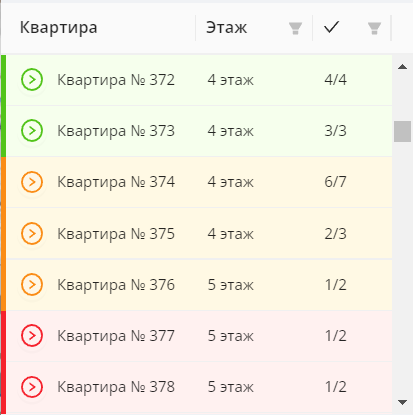
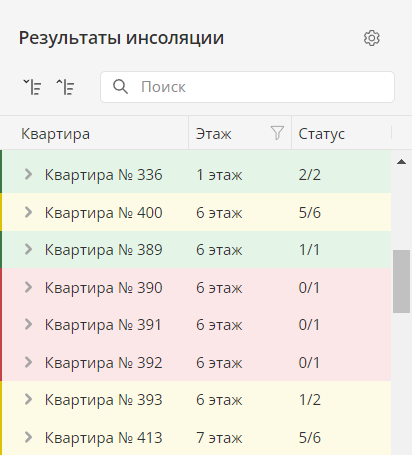
Fix keo docs

diff --git a/docs/3. Руководство пользователя/4. Расчет инсоляции/3. Анализ результатов.md b/docs/3. Руководство пользователя/4. Расчет инсоляции/3. Анализ результатов.md
@@ -2,7 +2,7 @@ import statysImage from "@site/docs/resources/lk/statys.png";
 import dlinaImage from "@site/docs/resources/lk/dlina.png";
 import rgyImage from "@site/docs/resources/rgy.png";
 import pppImage from "@site/docs/resources/frame/ppp.png";
-import rezImage from "@site/docs/resources/frame/rez.gif";
+import rezImage from "@site/docs/resources/frame/rez.png";
 import ilImage from "@site/docs/resources/frame/il.png";
 import kkImage from "@site/docs/resources/frame/kk.png";
 import zzImage from "@site/docs/resources/frame/zz.png";
@@ -15,37 +15,32 @@ import ssImage from "@site/docs/resources/frame/ss.png";
 
 Возвращаемся на вкладку *“Инсоляция”*, переходим в раздел *Результаты*.
 
-<image image={pppImage} width="40%" title="Рисунок 42 - Вкладка инсоляция. Подвкладка результаты"/>
+<image image={pppImage} width="40%" title="Рисунок 35 - Вкладка инсоляция. Подвкладка результаты"/>
 
-На панели мы видим здание/список зданий, ниже указывается тип жилое/общественное. Под каждым зданием списки со вложенностями. Разворачиваем вложенность. Напротив названия помещения отображается процент непрерывной инсоляции и суммарной. При нажатии на последнюю - выводятся время начала инсоляции, её конец им сумма. В нижней части экрана - инсоляционная линейка, на которой эта информация выведена графически. 
+На панели мы видим здание/список зданий, ниже указывается тип жилое/общественное. Под каждым зданием списки со вложенностями. Разворачиваем вложенность. Напротив названия помещения отображается периоды инсоляции и продолжительность. В нижней части экрана - инсоляционная линейка, на которой эта информация выведена графически. 
 
-<image image={rezImage} width="40%" title="Рисунок 43 - Результаты инсоляции"/>
+<image image={rezImage} width="40%" title="Рисунок 36 - Результаты инсоляции"/>
 
-<image image={ilImage} width="100%" title="Рисунок 44 - Инсоляционный график"/>
+<image image={ilImage} width="100%" title="Рисунок 37 - Инсоляционный график"/>
 
 
-Зелёным отображаются объекты прошедшие инсоляцию, красным - соответственно не прошедшие инсоляцию. Желтый цвет относится к категории “частично не прошли инсоляцию” (рис. 45). Это говорит о том, что нормативные требования инсоляции выполнены, но либо не все помещения пошли инсоляцию, либо прохождение обусловлено суммированием периодов для нескольких помещений. 
+Зелёным отображаются объекты прошедшие инсоляцию, красным - соответственно не прошедшие инсоляцию. Желтый цвет относится к категории “частично не прошли инсоляцию” (рис. 38). Это говорит о том, что нормативные требования инсоляции выполнены, но либо не все помещения пошли инсоляцию, либо прохождение обусловлено суммированием периодов для нескольких помещений. 
 
-<image image={rgyImage} width="40%" title="Рисунок 45 - Категории инсолирования"/>
-
-В верхней части панели есть фильтр, позволяющий отобразить только нужные для анализа планы и фильтр с категориями прохождения тем или иным помещением инсоляции (рис. 46).
-
-<image image={statysImage} width="40%" title="Рисунок 46 - Фильтр категорий инсолирования"/>
-
+<image image={rgyImage} width="40%" title="Рисунок 38 - Категории инсолирования"/>
 
 Графическое отображение лучей в сцене мы можем получить одинарным кликом по интересующему объекту ЛКМ в меню результатов, либо селектом определённого светопроема в самой сцене, также одинарным нажатием ЛКМ.
 
 Мы увидим опорные и расчетную (желтая) точки для каждого светопроема, а также инсоляционные лучи (зеленые).
 
-<image image={zzImage} width="100%" title="Рисунок 47 - Отображение инсоляции в сцене с построением и расчётной точкой."/>
+<image image={zzImage} width="100%" title="Рисунок 39 - Отображение инсоляции в сцене с построением и расчётной точкой."/>
 
-Над деревом объектов расположена панель опций (рис. 48). При необходимости можно изменить длину луча перетаскиванием кружочка, либо изменением числового значения. 
+Над деревом объектов расположена панель опций (рис. 40). При необходимости можно изменить длину луча перетаскиванием кружочка, либо изменением числового значения. 
 
-<image image={dlinaImage} width="40%" title="Рисунок 48 - Панель опций"/>
+<image image={dlinaImage} width="40%" title="Рисунок 40 - Панель опций"/>
 
 Переключение тогла в функции *“Показывать все лучи”* активирует красные лучи. Таким образом мы видим промежутки инсоляции и затенения в течение всего инсоляционного периода. Это позволяет наглядно продемонстрировать условия затенения.
 
-<image image={kkImage} width="100%" title="Рисунок 49 - Отображение инсоляции в сцене с красными и зелеными лучами"/>
+<image image={kkImage} width="100%" title="Рисунок 41 - Отображение инсоляции в сцене с красными и зелеными лучами"/>
 
 Переключением следующего тогла мы можем активировать текстовые метки выделенной в сцене квартиры.
 
@@ -53,5 +48,5 @@ import ssImage from "@site/docs/resources/frame/ss.png";
 
 Если нажать на здание в сцене, подсветятся все рассчитанные окна, в соответствии с их статусом прохождения инсоляции. Зелёным будут выделяться те, что проходят, красным - нет. 
 
-<image image={ssImage} width="100%" title="Рисунок 50 - Отображение статуса инсолирования всех рассчитаных окон"/>
+<image image={ssImage} width="100%" title="Рисунок 42 - Отображение статуса инсолирования всех рассчитаных окон"/>
 

diff --git a/docs/3. Руководство пользователя/7. Отчет/1. Формирование отчёта.md b/docs/3. Руководство пользователя/7. Отчет/1. Формирование отчёта.md
@@ -8,6 +8,8 @@ import step3Image from "@site/docs/resources/frame/step3.png";
 import step4Image from "@site/docs/resources/frame/step4.png";
 import step5Image from "@site/docs/resources/frame/step5.gif";
 import step6Image from "@site/docs/resources/frame/step6.png";
+import step7Image from "@site/docs/resources/frame/step7.png";
+import step77Image from "@site/docs/resources/frame/step77.png";
 
 ***
 
@@ -18,12 +20,16 @@ import step6Image from "@site/docs/resources/frame/step6.png";
 
 ### 1 ШАГ
 
+**Титульная страница**
+
 Заполняем строку *“Заголовок отчета”*
 Вводим данные штампа. Есть возможность его редактирования путем добавления и удаления строк. Нажимаем *“Продолжить”*
 
 <image image={step1Image} width="100%" title="Рисунок 69 - 1 шаг создания отчета по инсоляции"/>
 
 ### 2 ШАГ
+
+**Введение**
 
 Заполняем поле *“Введение”*. Текст можно сохранить как шаблон и использовать в последующих версиях отчета для текущей модели.
 
@@ -33,17 +39,23 @@ import step6Image from "@site/docs/resources/frame/step6.png";
 
 ###  3 ШАГ
 
-На этом этапе Вы выбираете необходимые для отчета этажи с помощью фильтра.
+**Расчет инсоляции**
+
+На этом этапе Вы выбираете необходимые для отчета помещения с помощью фильтра и можете настроить отображение. Можно, по желанию,добавить к отчёту сводную таблицу, инсоляционную линейку, пометить цветом результаты инсоляции. По умолчанию эти опции отключены.
 
 <image image={step3Image} width="100%" title="Рисунок 71 - 3 шаг создания отчета по инсоляции"/>
 
 ### 4 ШАГ
+
+**Вывод**
 
 Заполняем поле *“Вывод”*. Текст можно сохранить как шаблон и использовать в последующих версиях отчета для текущей модели.
 
 <image image={step4Image} width="100%" title="Рисунок 72 - 4 шаг создания отчета по инсоляции"/>
 
 ### 5 ШАГ
+
+**Приложение**
 
 В автоматически сформированном списке объектов из файла RVT выбираем здание. Далее выбираем этаж, либо группу этажей, для которых необходимо сгенерировать сечение. 
 
@@ -70,9 +82,29 @@ import step6Image from "@site/docs/resources/frame/step6.png";
 
 ### 6 ШАГ
 
+**Графическая часть**
+
+На данном шаге у пользователя есть возможность сгенерировать графический план сцены, который представляет из себя сборку всех зданий на сцене и отображение лучей с информацией о продолжительности инсоляции выбранной расчетной точки. Для этого нужно нажать кнопку "+ Добавить план" (рис. 74).
+
+<image image={step7Image} width="100%" title="Рисунок 74 - Кнопка Добавить план"/>
+
+Данный блок позволяет: (рис. 75)
+
+- выбрать нужную расчетную точку для отображения продолжительности инсоляции;
+- настроить позиционирование камеры на здании или на центре сцены при создании листа;
+- выбрать необходимый масштаб и формат листа;
+- добавить таблицу, содержащую в себе информацию о продолжительности инсоляции расчетной точки.
+  
+
+<image image={step77Image} width="100%" title="Рисунок 75 - Настройка графического плана"/>
+
+### 7 ШАГ
+
+**Готово**
+
 Ваш отчёт готов! На этом этапе доступно превью всего отчета, его можно сохранить для редактирования в сервисе. 
 
-<image image={step6Image} width="100%" title="Рисунок 74 - 6 шаг создания отчета по инсоляции"/>
+<image image={step6Image} width="100%" title="Рисунок 76 - 7 шаг создания отчета по инсоляции"/>
 
 Отчет можно сохранить в PDF. Файл будет скачан и заверен электронной подписью, без дальнейшей возможности редактирования.
 

diff --git a/docs/3. Руководство пользователя/4. Расчет инсоляции/4. Расчет площадок.md b/docs/3. Руководство пользователя/4. Расчет инсоляции/4. Расчет площадок.md
@@ -1,0 +1,60 @@
+
+import pl1Image from "@site/docs/resources/frame/pl1.png";
+import pl2Image from "@site/docs/resources/frame/pl2.png";
+import pl3Image from "@site/docs/resources/frame/pl3.png";
+import pl5Image from "@site/docs/resources/frame/pl5.png";
+import pl6Image from "@site/docs/resources/frame/pl6.png";
+import pl7Image from "@site/docs/resources/frame/pl7.png";
+import pl8Image from "@site/docs/resources/frame/pl8.png";
+
+***
+
+## Требования к построению площадки и ее экспорт
+
+**Построение площадки**
+
+Площадка строится системным семейством “Перекрытие” в Revit.  (рис.43)
+
+<image image={pl1Image} width="100%" title="Рисунок 43 - Инструмент Перекрытие"/>
+
+Для того, чтобы сервис понимал, что является площадкой, необходимо в параметр *“Группа модели”* (рис.44)  ввести название *“Площадка”* и в параметр *“Марка”* (рис.45) ввести наименование площадки, которое будет отображаться в сервисе.
+
+<image image={pl2Image} width="50%" title="Рисунок 44 - Группа модели"/>
+
+
+<image image={pl3Image} width="50%" title="Рисунок 45 - Параметр Марка"/>
+
+
+## Экспорт площадки
+
+В сервис экспортируются все площадки, видимые на виде и имеющие заполненные параметры *“Группа модели”* и *“Марка”*.
+
+
+## Расчет площадки 
+
+Перед началом расчета, убедитесь, что у вас настроено местоположение. Настройки инсоляции площадок те же, что и для инсоляции окон. Они выставляются во вкладке *“Инсоляция”* (Рис.46).
+
+<image image={pl6Image} width="50%" title="Рисунок 46 - Настройки расчета площадок"/>
+
+Для того, чтобы рассчитать площадку, необходимо перейти во вкладку *“Площадки”* в правом меню. (рис.38)
+
+<image image={pl5Image} width="50%" title="Рисунок 47 - Вкладка Площадки"/>
+
+
+
+
+
+
+Далее выбираем нужные площадки (рис.48) и запускаем расчет.
+
+<image image={pl7Image} width="50%" title="Рисунок 48 - Список экспортированных в сервис площадок"/>
+
+## Результаты расчета площадки
+
+После выполненного расчета нужно перейти в *“Результаты”* (Рис.49), где в столбце *“Статус”* (Рис.49) можно увидеть процент инсолирования площадки.
+
+<image image={pl8Image} width="50%" title="Рисунок 49 - Результаты расчёта"/>
+
+
+
+
